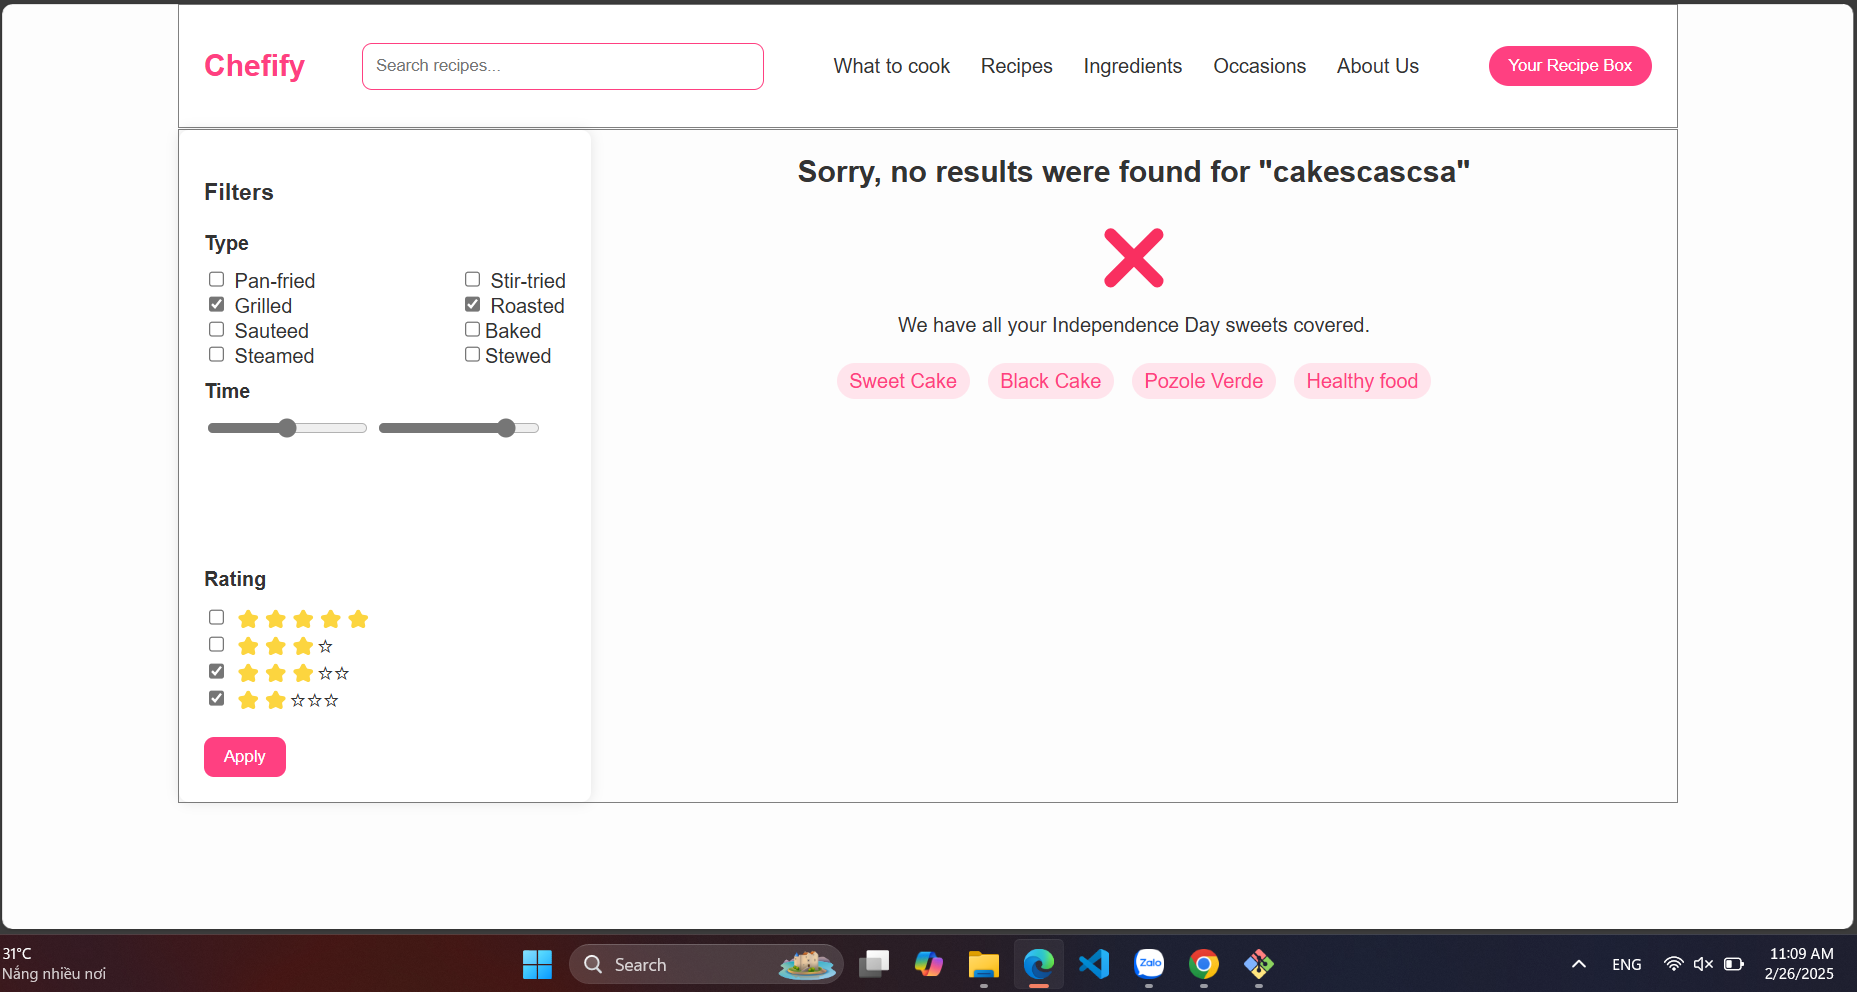
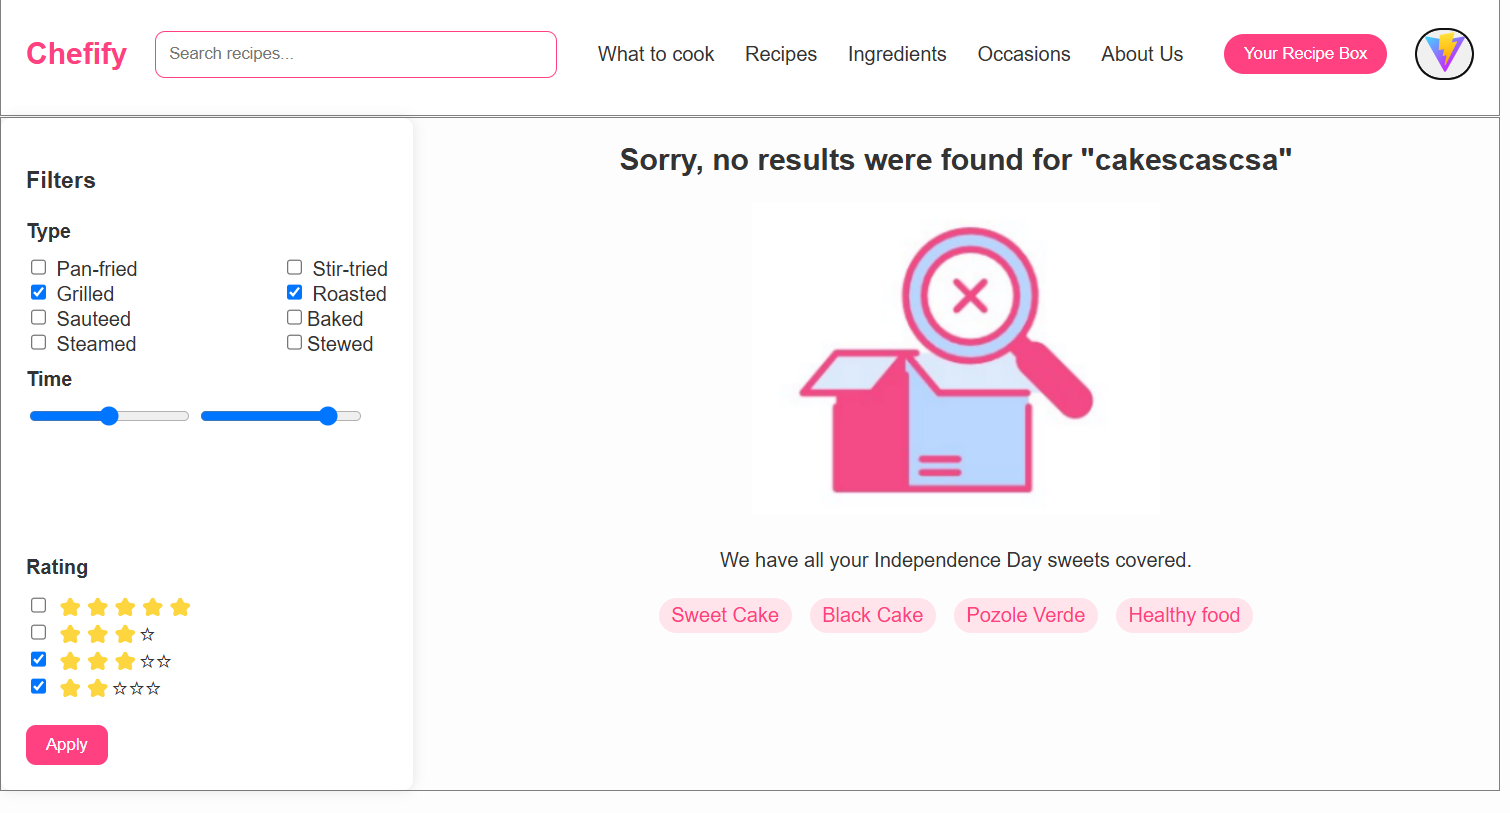
update bai 1

diff --git a/my-app-react/index.html b/my-app-react/index.html
@@ -127,6 +127,7 @@
         <a href="#">About Us</a>
       </nav>
       <button class="recipe-box">Your Recipe Box</button>
+      <button style="border-radius: 22px;"><img src="./public/vite.svg" alt="" srcset=""></button>
     </header>
 
     <div class="content">
@@ -178,7 +179,7 @@
 
       <main class="results">
         <h2>Sorry, no results were found for "cakescascsa"</h2>
-        <div class="no-results-icon">❌</div>
+        <div class="no-results-icon"><img src="./public/anh1.png" alt="" srcset=""></div>
         <p>We have all your Independence Day sweets covered.</p>
         <div class="suggestions">
           <span>Sweet Cake</span>
